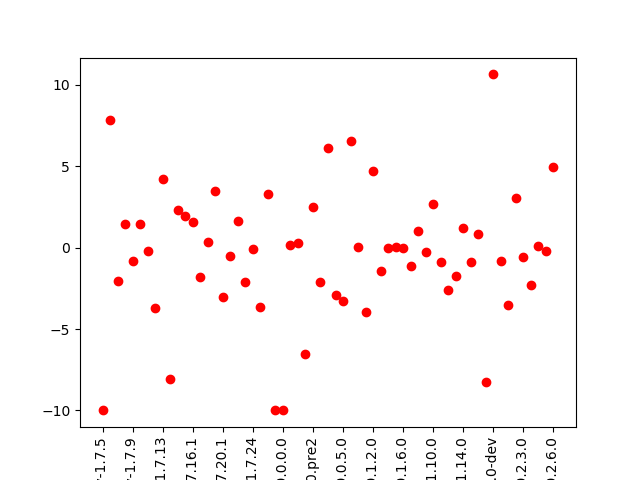
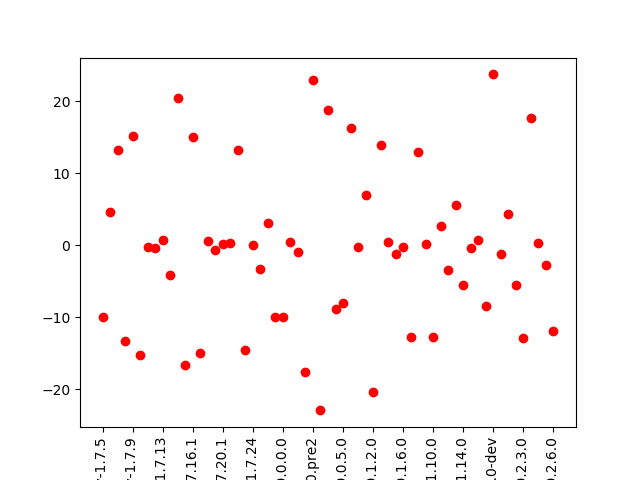
more on interpo

diff --git a/stats.py b/stats.py
@@ -5,6 +5,7 @@ from operator import itemgetter
 
 NOVERSION = None
 NOJUMP = -10
+TRIPLEPERFO = 60
 crubyMeans = []
 crubyStdDevs = []
 crubyVersions = []
@@ -18,13 +19,13 @@ jrubyVersions = []
 jrubyJumps = []
 sortedJrubyJumps = []
 
-for i in ['results.csv', 'jruby_results3.csv']:
+for i in ['results.csv', 'jruby_results_flags.csv']:
 
 	with open(i) as f:
 
 		reader = csv.reader(f, delimiter=',')
 
-		if i == 'jruby_results3.csv' :
+		if i == 'jruby_results_flags.csv' :
 			#try:
 			#	reader = sorted(reader, key = lambda s: list(map(int, str(s[1])[6:].split('.'))))
 			#except ValueError:
@@ -94,6 +95,13 @@ crubyLine = []
 for i in crubyVersionsLineX :
 	crubyLine.append(m*i + b)
 
+#When to reach triple performance?
+
+goalVersion = (TRIPLEPERFO-b)/m
+goalVersion = (2*b)/m
+print("We wil reach 3x3 goal at version {}.".format(goalVersion))
+print("This is in {} versions.".format(goalVersion-len(crubyLine)))
+print()
 
 
 ##jRuby
